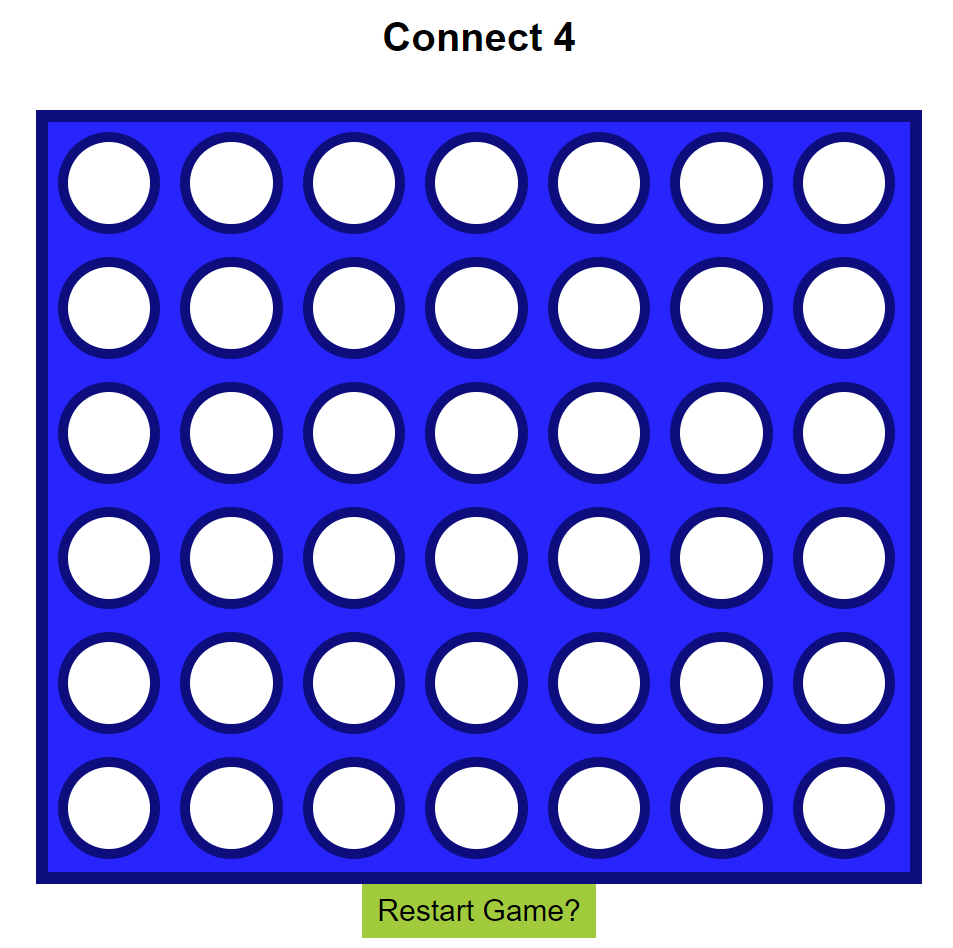
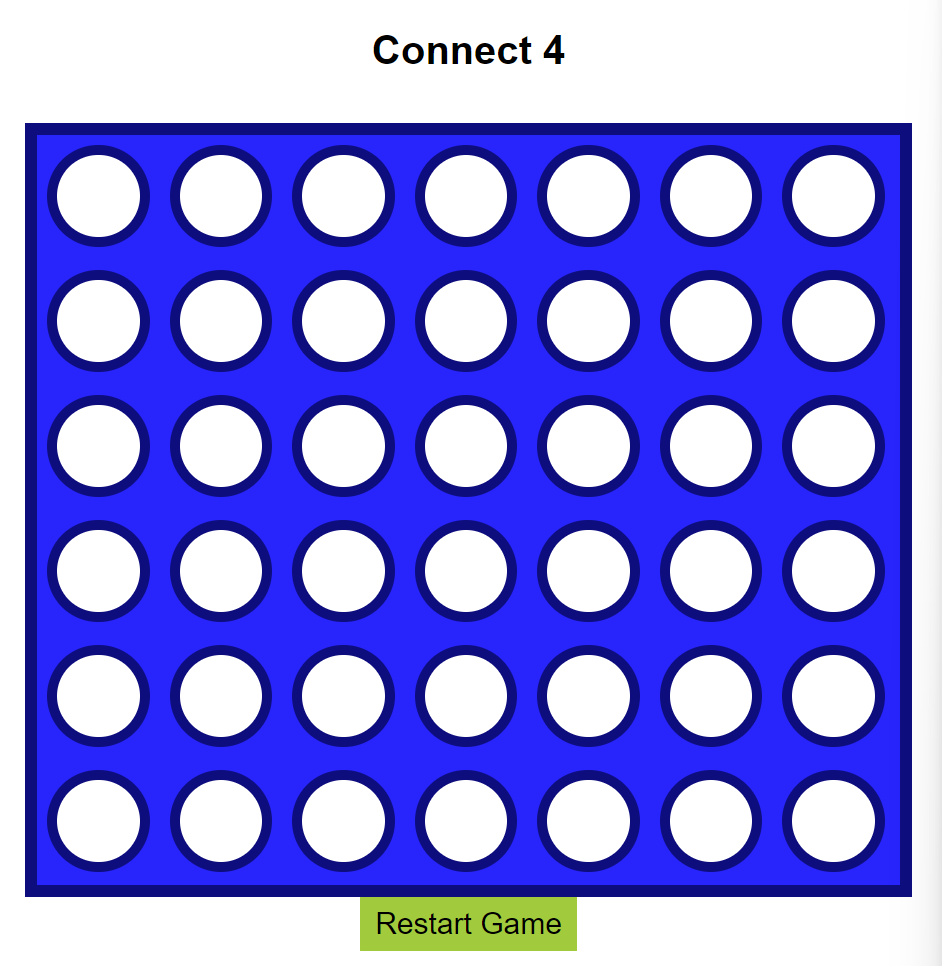
added condition where game ends in a tie and updated css styling for game messages

diff --git a/Connect4.js b/Connect4.js
@@ -1,5 +1,3 @@
-
-
 var playerRed = "R";
 var playerPurple = "P";
 var currPlayer = playerRed;
@@ -65,6 +63,19 @@ function setPiece() {
     currColumns[c] = r; /* update the array for currColumns*/
 
     checkWinner();
+
+    // Check if the board if full and declare a tie
+    if (isBoardFull()) {
+        let tie = document.getElementById("Winner");
+        tie.innerText = "It's a Tie! Restart to Play Again";
+        tie.style.color = 'black';
+        gameOver = true;
+    }
+}
+
+function isBoardFull() {
+    // check if all columns are filled
+    return currColumns.every(column => column < 0);
 }
 
 function checkWinner() {
@@ -118,10 +129,12 @@ function checkWinner() {
 function setWinner(r, c) {
     let winner = document.getElementById("Winner");
     if (board[r][c] == playerRed) {
-        winner.innerText = "Red wins";
+        winner.innerText = "Red Wins! Game Over";
+        winner.style.color = 'red';
     }
     else {
-        winner.innerText = "Purple wins";
+        winner.innerText = "Purple Wins! Game Over";
+        winner.style.color = 'purple';
     }
     
     gameOver = true;

diff --git a/Connect4.html b/Connect4.html
@@ -13,6 +13,6 @@
     <h1>Connect 4</h1>
     <h2 id="Winner"></h2>
     <div id="Board"></div>
-    <button type="button" onClick="resetGame()">Restart Game?</button>
+    <button type="button" onClick="resetGame()">Restart Game</button>
 </body>
 </html>

diff --git a/Connect4.css b/Connect4.css
@@ -48,6 +48,5 @@ button:hover {
 #Winner {
     font-family:'Gill Sans', 'Gill Sans MT', Calibri, 'Trebuchet MS', sans-serif;
     font-weight: bold;
-    color: red;
     font-size: 48px;
 }
